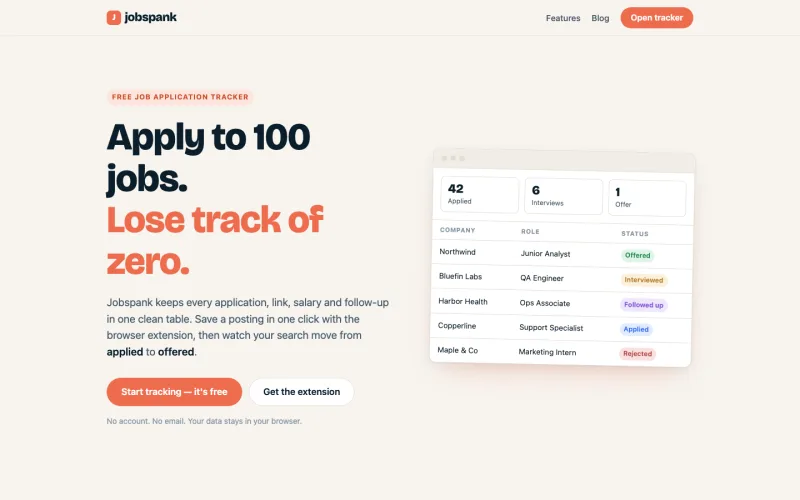
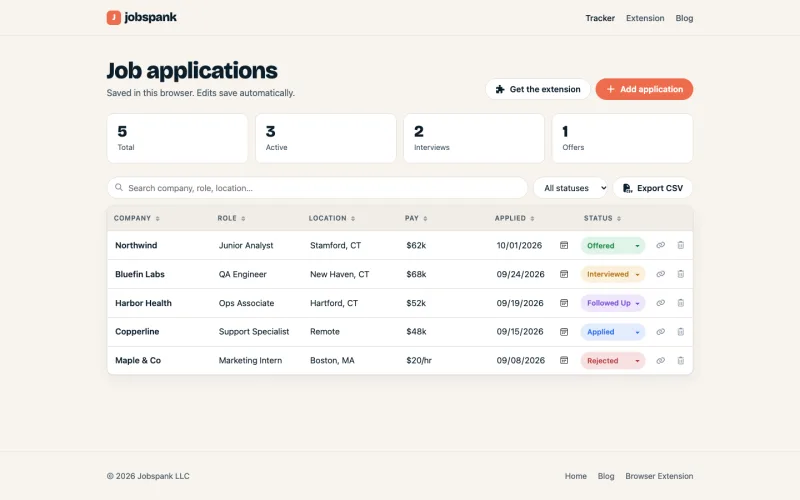
Focus Jobspank card on the web app
Drop browser extension mentions from the project card, timeline and
README, and swap the homepage screenshot for one of the tracker app.

diff --git a/public/index.html b/public/index.html
@@ -232,18 +232,17 @@
 
             <article class="project">
               <a href="https://www.jobspank.org" target="_blank" rel="noopener noreferrer">
-                <img class="screenshot" src="/images/projects/jobspank.webp" srcset="/images/projects/jobspank-800.webp 800w, /images/projects/jobspank.webp 1440w" sizes="(min-width: 768px) 500px, 100vw" width="1440" height="900" loading="lazy" decoding="async" alt="Jobspank homepage: Apply to 100 jobs. Lose track of zero. Beside a preview of the job application tracker" />
+                <img class="screenshot" src="/images/projects/jobspank.webp" srcset="/images/projects/jobspank-800.webp 800w, /images/projects/jobspank.webp 1440w" sizes="(min-width: 768px) 500px, 100vw" width="1440" height="900" loading="lazy" decoding="async" alt="Jobspank job application tracker showing five sample applications with status badges, summary stats, search, and CSV export" />
               </a>
               <div class="project-body">
                 <header>
                   <p class="eyebrow">Founder · Jobspank LLC · Mar 2025 – Present</p>
                   <h3>Jobspank</h3>
                 </header>
-                <p>A free job application tracker and one-click browser extension for entry-level job seekers. No account needed; data stays in the browser.</p>
+                <p>A free job application tracker web app for entry-level job seekers. No account needed; data stays in the browser.</p>
                 <ul class="bullets">
                   <li>Interviewed recent college graduates to gather requirements and prototyped user flows in Figma.</li>
                   <li>Built a spreadsheet-style tracker with inline editing, search, status filters, sortable columns, stats, undoable deletes, and CSV export.</li>
-                  <li>Shipped a Manifest V3 browser extension that saves a job posting to the tracker in one click.</li>
                   <li>Added a resume bullet point wizard and blog on a shared design system, plus an SEO landing page with structured data and a sitemap.</li>
                 </ul>
                 <ul class="chips">
@@ -251,7 +250,6 @@
                   <li class="chip">HTML</li>
                   <li class="chip">CSS</li>
                   <li class="chip">Vite</li>
-                  <li class="chip">Browser Extensions</li>
                   <li class="chip">Figma</li>
                 </ul>
                 <a href="https://www.jobspank.org" target="_blank" rel="noopener noreferrer" class="link">Visit jobspank.org ↗</a>
@@ -338,7 +336,7 @@
               <p class="muted">Jobspank LLC · West Haven, CT</p>
               <ul class="bullets">
                 <li>Building studystate.us, a cost and program comparison site covering 90 public colleges in Connecticut and New York.</li>
-                <li>Built Jobspank, a free job application tracker and one-click browser extension for entry-level job seekers, informed by user research interviews and Figma prototypes.</li>
+                <li>Built Jobspank, a free job application tracker web app for entry-level job seekers, informed by user research interviews and Figma prototypes.</li>
               </ul>
             </li>
             <li>

diff --git a/README.md b/README.md
@@ -14,7 +14,7 @@ Full stack web developer and Magna Cum Laude Computer Science graduate from East
 ## Key Projects
 
 - **AB EcoPark:** Petition website built with Next.js and Supabase to collect signatures for a carbon-negative recycling facility.
-- **Jobspank:** Free job application tracker and one-click browser extension for entry-level job seekers.
+- **Jobspank:** Free job application tracker web app for entry-level job seekers.
 
 ## Editing Content
 
